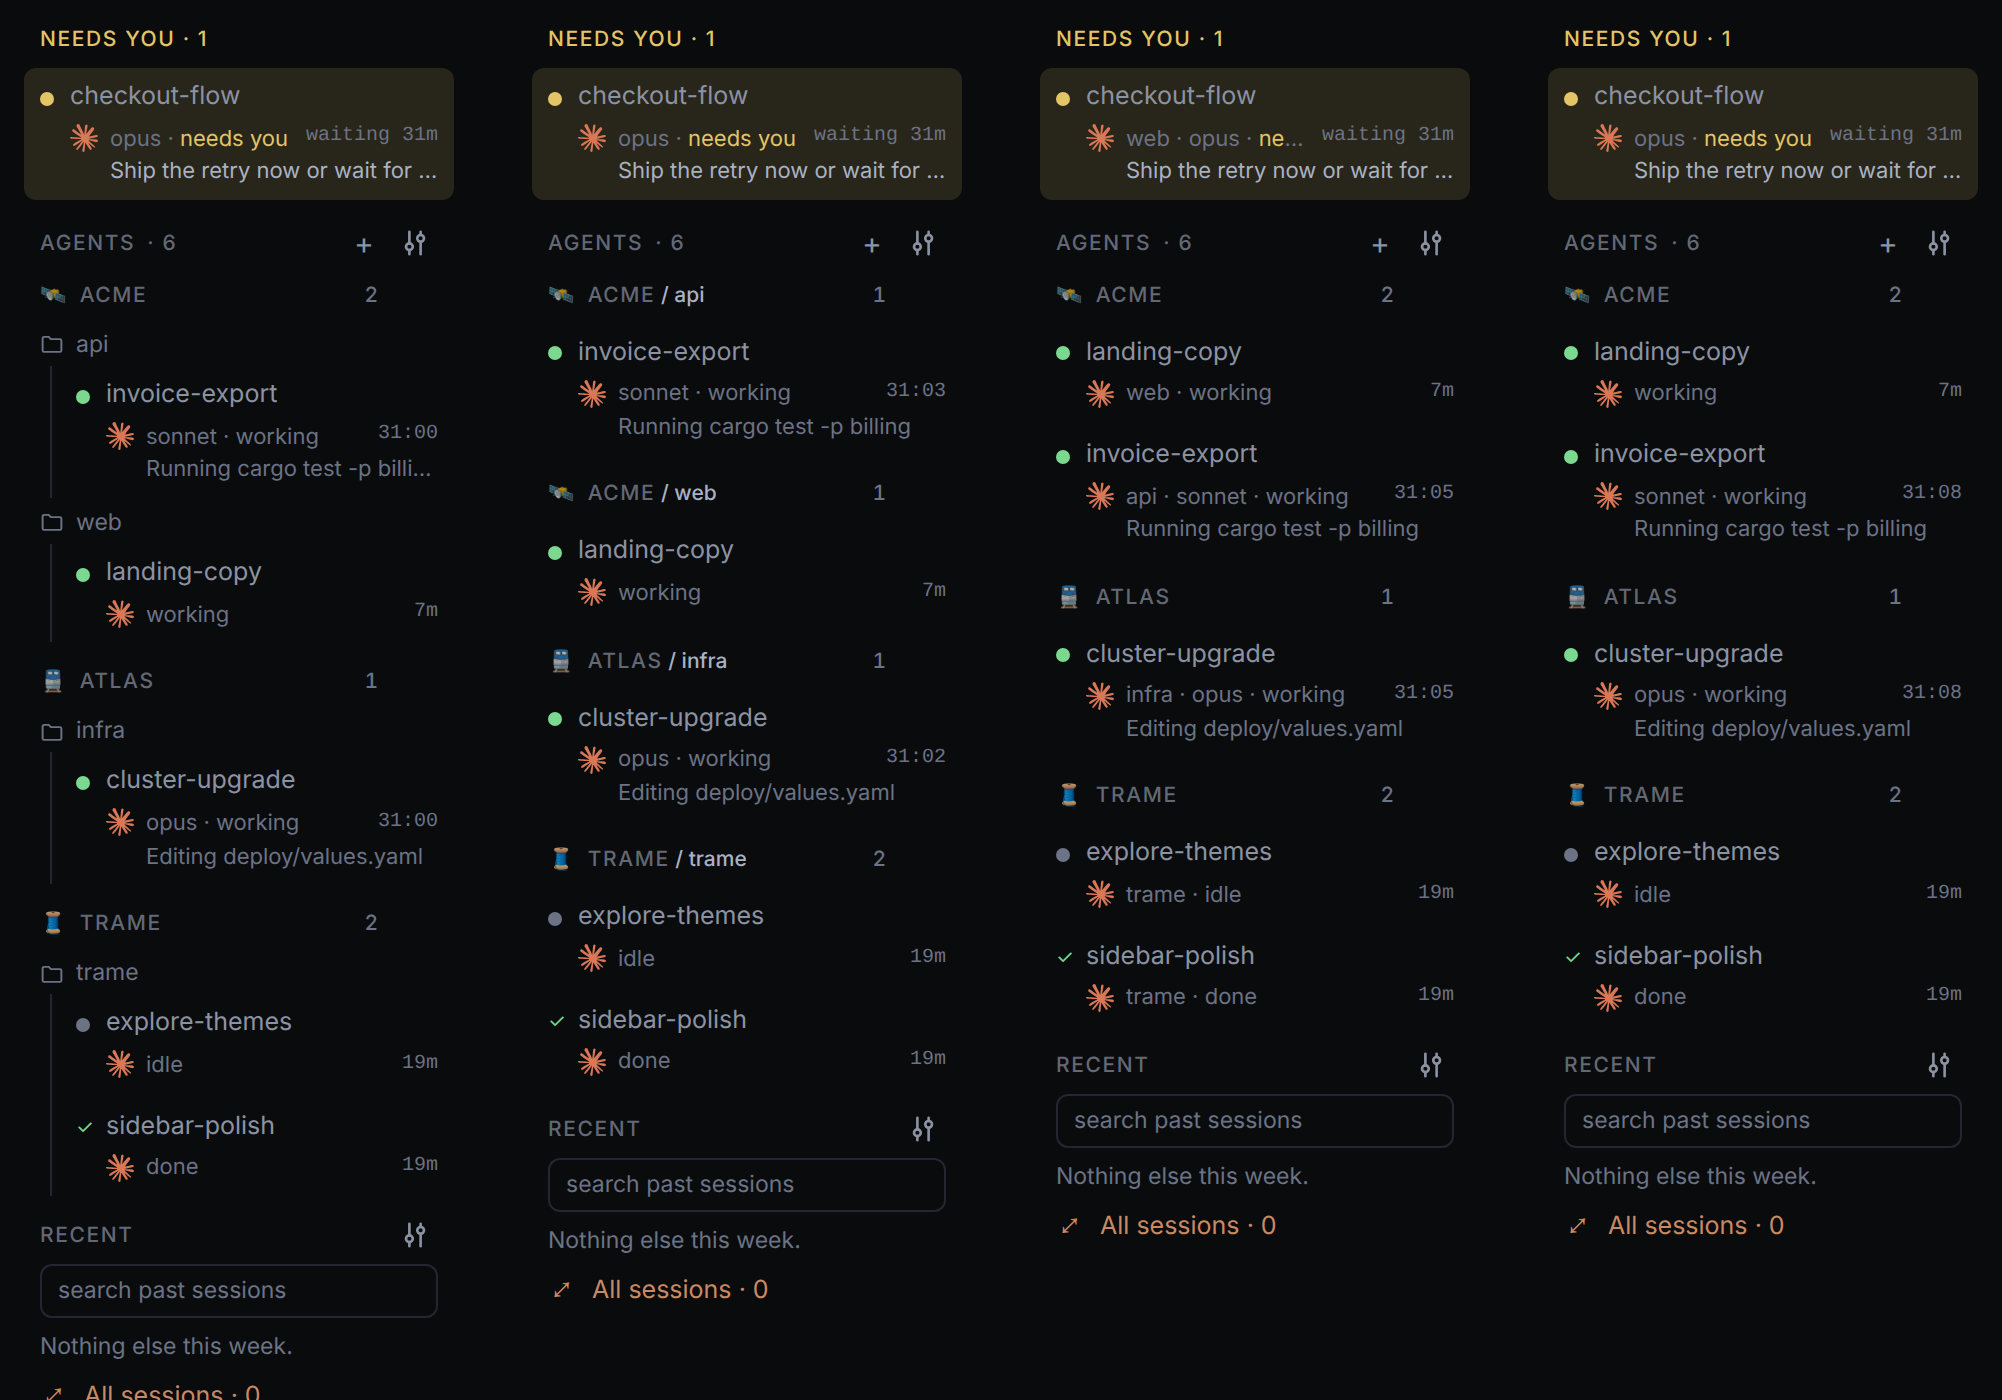
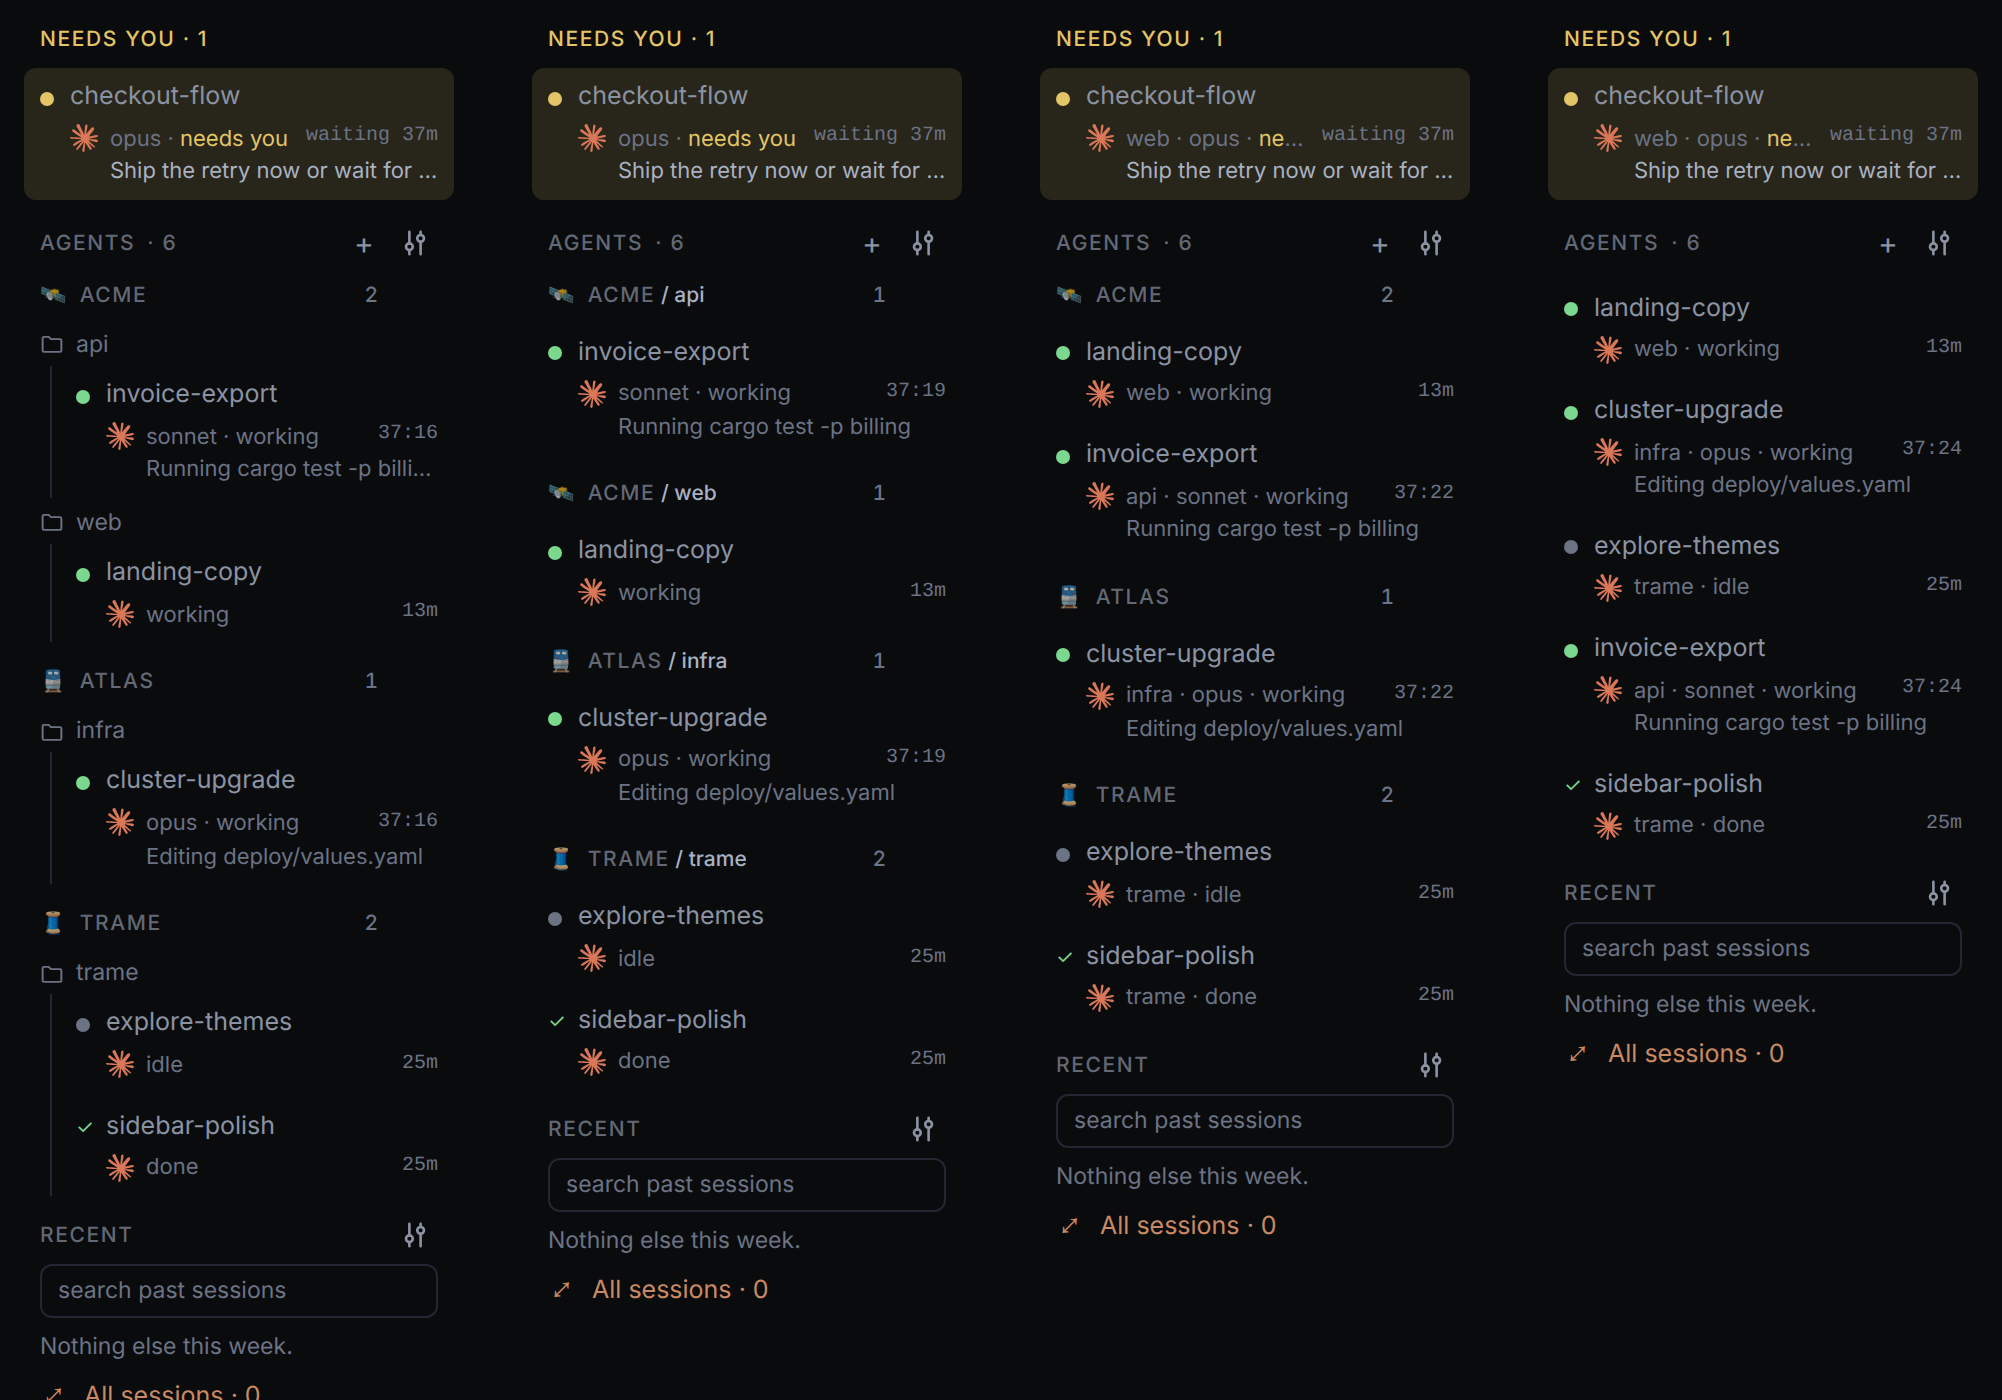
feat(terminals): repos are a grouping choice, in a nicer view menu
GROUP BY now picks Project › repo (a folder per repo, the default), Project / repo, Project (the
repo on each agent's line) or No grouping; the separate Repos section is gone. View menus show
radio dots and a mono sample of each option.

diff --git a/app/web/src/term/TermCards.tsx b/app/web/src/term/TermCards.tsx
@@ -9,17 +9,16 @@ import { LinkCardDialog } from "./LinkCardDialog";
 import { NewTerminalDialog } from "./NewTerminalDialog";
 import { closeTerminal, revealTerminal, sessionLabel, type TermSession, useTermDock, useTermSessions } from "./term-api";
 
-const GROUPINGS = ["project", "none"] as const;
+// by project with a folder per repo, by project and repo, by project (the repo on each agent's line), or not at all
+const GROUPINGS = ["tree", "paths", "project", "none"] as const;
 type Grouping = typeof GROUPINGS[number];
-const GROUPING_LABEL: Record<Grouping, string> = { project: "Project", none: "No grouping" };
-const REPO_STYLES = ["tree", "paths", "row", "off"] as const;
-type RepoStyle = typeof REPO_STYLES[number];
-const REPO_STYLE_LABEL: Record<RepoStyle, string> = {
-  tree: "Under their project",
-  paths: "Project / repo headers",
-  row: "On the agent's line",
-  off: "Hidden",
+const GROUPING_LABEL: Record<Grouping, string> = {
+  tree: "Project › repo",
+  paths: "Project / repo",
+  project: "Project",
+  none: "No grouping",
 };
+const GROUPING_HINT: Record<Grouping, string> = { tree: "└ api", paths: "acme / api", project: "api · opus", none: "api · opus" };
 
 // The Terminals view's sidebar column: the agents running in Trame's shells (and outside it, from their card's
 // presence), grouped by project or not at all.
@@ -55,8 +54,8 @@ export function TermCards(
   },
 ) {
   const { terms } = useTermDock();
-  const [grouping, setGrouping] = useLocalStorage<Grouping>("trame:termGrouping", "project", enumCodec(GROUPINGS));
-  const [repoStyle, setRepoStyle] = useLocalStorage<RepoStyle>("trame:termRepoStyle", "tree", enumCodec(REPO_STYLES));
+  const [grouping, setGrouping] = useLocalStorage<Grouping>("trame:termGrouping", "tree", enumCodec(GROUPINGS));
+  const byProject = grouping !== "none";
   // group headers folded (keyed by grouping:key)
   const [folded, setFolded] = useLocalStorage("trame:termFolded", new Set<string>(), SET_CODEC);
   const flip = (set: Set<string>, save: (v: Set<string>) => void, k: string) => {
@@ -92,13 +91,13 @@ export function TermCards(
     const t = terms[x.term];
     return repoName((t?.card && cardOf.get(t.card)?.repo_path) || t?.cwd || null);
   };
-  // one section per project, or per project and repo with "Project / repo headers"
+  // one section per project, or per project and repo with "Project / repo"
   type Group = { key: string; project: string | null; repo: string | null; xs: TermSession[] };
   const groups = new Map<string, Group>();
   for (const x of running) {
-    const project = grouping === "project" ? projectOf(x) : null;
-    const repo = grouping === "project" && repoStyle === "paths" ? repoOf(x) : null;
-    const key = grouping === "project" ? `${project ?? ""}/${repo ?? ""}` : "all";
+    const project = byProject ? projectOf(x) : null;
+    const repo = grouping === "paths" ? repoOf(x) : null;
+    const key = byProject ? `${project ?? ""}/${repo ?? ""}` : "all";
     const g = groups.get(key) ?? { key, project, repo, xs: [] };
     g.xs.push(x);
     groups.set(key, g);
@@ -189,7 +188,7 @@ export function TermCards(
               {dot(waiting, working, !waiting && !working && x.done)}
               <span className="min-w-0 flex-1 truncate">{sessionLabel(x)}</span>
             </span>
-            <AgentLine l={l} x={x} repo={repoStyle === "row" ? repoOf(x) : null} />
+            <AgentLine l={l} x={x} repo={grouping === "project" || grouping === "none" ? repoOf(x) : null} />
           </>
         ))}
       </div>
@@ -244,15 +243,7 @@ export function TermCards(
         >
           +
         </button>
-        <GroupMenu value={grouping} options={GROUPING_LABEL} onChange={setGrouping}>
-          <div className={`px-2 pb-1 pt-2 ${SECTION_LABEL}`}>REPOS</div>
-          {REPO_STYLES.map((r) => (
-            <MenuRow key={r} active={r === repoStyle} onClick={() => setRepoStyle(r)}>
-              <span className="w-3 text-center">{r === repoStyle ? "✓" : ""}</span>
-              <span className="flex-1">{REPO_STYLE_LABEL[r]}</span>
-            </MenuRow>
-          ))}
-        </GroupMenu>
+        <GroupMenu value={grouping} options={GROUPING_LABEL} hints={GROUPING_HINT} onChange={setGrouping} />
         {newOpen && (
           <NewTerminalDialog
             board={board}
@@ -315,7 +306,7 @@ export function TermCards(
               )}
             </div>
           )}
-          {!folded.has(gkey(key)) && (grouping === "project" && repoStyle === "tree"
+          {!folded.has(gkey(key)) && (grouping === "tree"
             ? byRepo(xs).map(([r, rs]) =>
               r === null ? rs.map(agentRow) : (
                 <div key={r} className="flex flex-col gap-0.5">

diff --git a/app/web/src/ui/GroupMenu.tsx b/app/web/src/ui/GroupMenu.tsx
@@ -3,14 +3,14 @@ import { SlidersIcon } from "./icons";
 import { IconButton, MenuRow, Popover, SECTION_LABEL } from "./ui";
 
 // A sidebar list's sliders button: pick how its rows are grouped. `className` can hide it until its section's hover; open, it stays shown.
-// `children` adds the list's other view options below the groupings.
+// `hints` show, on the right of each option, a sample of what it looks like.
 export function GroupMenu<T extends string>(
-  { value, options, onChange, className = "", children }: {
+  { value, options, hints, onChange, className = "" }: {
     value: T;
     options: Record<T, string>;
+    hints?: Partial<Record<T, string>>; // a mono sample of what each option looks like
     onChange: (v: T) => void;
     className?: string;
-    children?: ReactNode;
   },
 ) {
   const [open, setOpen] = useState(false);
@@ -27,24 +27,49 @@ export function GroupMenu<T extends string>(
         <SlidersIcon />
       </IconButton>
       {open && (
-        <Popover portal onClose={() => setOpen(false)}>
-          <div className={`px-2 pb-1 pt-0.5 ${SECTION_LABEL}`}>GROUP BY</div>
-          {(Object.keys(options) as T[]).map((g) => (
-            <MenuRow
-              key={g}
-              active={g === value}
-              onClick={() => {
-                onChange(g);
-                setOpen(false);
-              }}
-            >
-              <span className="w-3 text-center">{g === value ? "✓" : ""}</span>
-              <span className="flex-1">{options[g]}</span>
-            </MenuRow>
-          ))}
-          {children}
+        <Popover portal onClose={() => setOpen(false)} className="min-w-52">
+          <MenuSection label="GROUP BY" first>
+            {(Object.keys(options) as T[]).map((g) => (
+              <MenuOption
+                key={g}
+                active={g === value}
+                label={options[g]}
+                hint={hints?.[g]}
+                onClick={() => {
+                  onChange(g);
+                  setOpen(false);
+                }}
+              />
+            ))}
+          </MenuSection>
         </Popover>
       )}
     </span>
+  );
+}
+
+// a titled group of options; any after the first gets a divider
+function MenuSection({ label, first, children }: { label: string; first?: boolean; children: ReactNode }) {
+  return (
+    <div role="group" aria-label={label} className={first ? "" : "mt-1 border-t border-line pt-1"}>
+      <div className={`px-2 pb-0.5 pt-1 ${SECTION_LABEL}`}>{label}</div>
+      {children}
+    </div>
+  );
+}
+
+// one choice of a menu section: a radio dot, its label, and an optional mono hint of what it looks like
+function MenuOption({ active, label, hint, onClick }: { active: boolean; label: string; hint?: string; onClick: () => void }) {
+  return (
+    <MenuRow active={active} role="menuitemradio" aria-checked={active} onClick={onClick}>
+      <span
+        aria-hidden="true"
+        className={`grid h-3 w-3 shrink-0 place-items-center rounded-full border ${active ? "border-copper" : "border-ink-faint/60"}`}
+      >
+        {active && <span className="h-1.5 w-1.5 rounded-full bg-copper" />}
+      </span>
+      <span className="flex-1">{label}</span>
+      {hint && <span className="pl-3 font-mono text-[10.5px] text-ink-faint">{hint}</span>}
+    </MenuRow>
   );
 }
